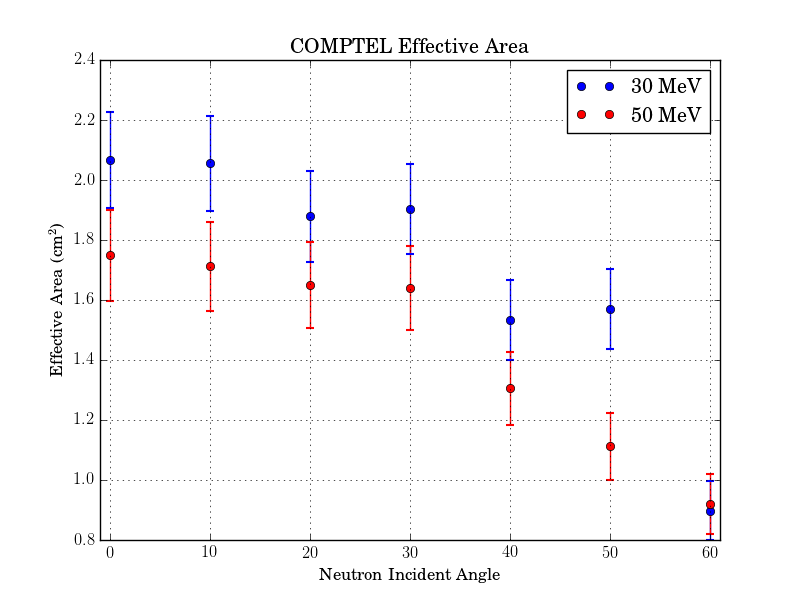
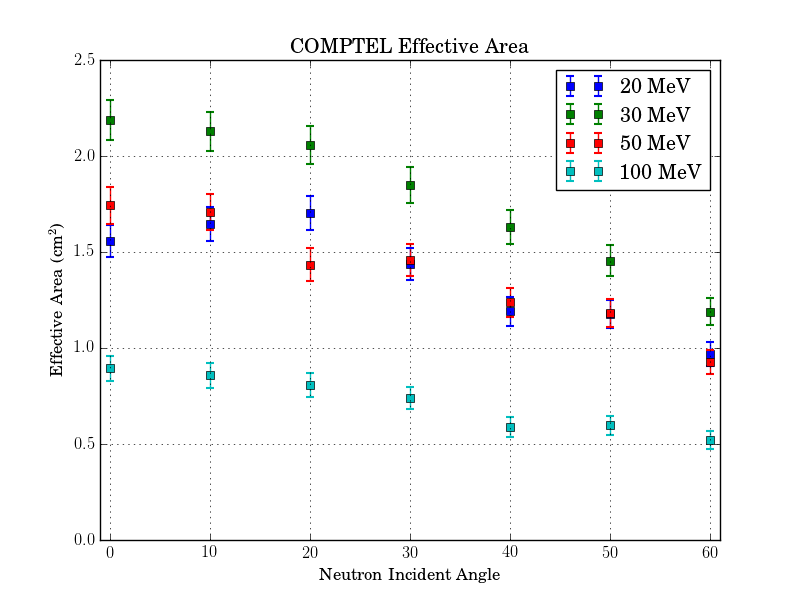
updating

diff --git a/analyze_data/analyze_data.py b/analyze_data/analyze_data.py
@@ -16,51 +16,43 @@ import neutron_analysis as na
 sys.path.insert(0, '/Users/morgan/summer_research/process_sim_files')
 from process_sims import Data
 
+
 def open_data(path_to_pickles):
     """
     Outputs
     """
 
-    eff30 = []
-    err30 = []
-    for pckl in glob.iglob(path_to_pickles + '/COMPTEL30MeV*_processed'):
+    energy = [20, 30, 50, 100]
+    angles = [0, 10, 20, 30, 40, 50, 60]
+    # plt.rc('text', usetex=True)
+    # plt.rc('font', family='serif')
 
-        angles = [0, 10, 20, 30, 40, 50, 60]
-        with open(pckl, 'rb') as f:
-            data = pickle.load(f)
-        eff = na.effective_area(data)
-        eff30.append(eff)
-        err30.append(eff/sqrt(data.triggered_events))
+    with open('output_data.txt', 'w') as f:
+        for E in energy:
+            eff = []
+            err = []
+            i = 0
+            for pckl in glob.iglob( path_to_pickles + '/COMPTEL{}MeV*'.format(E) ):
+                with open(pckl, 'rb') as p:
+                    data = pickle.load(p)
+                E_A = na.effective_area(data)
+                eff.append(E_A)
+                err.append(E_A/sqrt(data.triggered_events))
 
+                f.write('{}, {}, {}\n'.format(E, angles[i], E_A))
+                i += 1
 
-    eff50 = []
-    err50 = []
-    for pckl in glob.iglob(path_to_pickles + '/COMPTEL50MeV*_processed'):
-
-        angles = [0, 10, 20, 30, 40, 50, 60]
-        with open(pckl, 'rb') as f:
-            data = pickle.load(f)
-        eff = na.effective_area(data)
-        eff50.append(eff)
-        err50.append(eff/sqrt(data.triggered_events))
-
-    plt.rc('text', usetex=True)
-    plt.rc('font', family='serif')
-    plt.plot(angles, eff30, 'bo', angles, eff50, 'ro')
-    plt.hold(True)
-    plt.xlim(-1, 61)
-    plt.errorbar(angles, eff30, yerr=err30, fmt='.', capthick=1.5)
-    plt.errorbar(angles, eff50, yerr=err50, fmt='r.', ecolor='r', capthick=1.5)
-    plt.ylabel(r'Effective Area (cm\textsuperscript{2})')
-    plt.xlabel(r'Neutron Incident Angle')
-    plt.title(r'COMPTEL Effective Area')
-    plt.legend([r'30 MeV', r'50 MeV'])
-    plt.grid(True)
-    plt.savefig('COMPTELeffective_area')
-    plt.show()
+            # plt.errorbar(angles, eff, yerr=err, fmt='s', capthick=1.5)
+            # plt.hold(True)
 
 
-
+    # plt.xlim(-1, 61)
+    # plt.ylabel(r'Effective Area (cm\textsuperscript{2})')
+    # plt.xlabel(r'Neutron Incident Angle')
+    # plt.title(r'COMPTEL Effective Area')
+    # plt.legend([r'20 MeV', r'30 MeV', r'50 MeV', r'100 MeV'])
+    # plt.grid(True)
+    # plt.savefig('COMPTELeffective_area')
 
 
     # plot efficiency vs energy

diff --git a/process_sim_files/process_sims.py b/process_sim_files/process_sims.py
@@ -37,7 +37,6 @@ def standard_output(sim_files):
     new_directory = os.path.join(directory, 'processed_data')
     if not os.path.exists(new_directory):
         os.makedirs(new_directory)
-    os.chdir(new_directory)
 
     if os.path.isfile(sim_files):
         # convert *.sim file to Pandas data frame
@@ -67,10 +66,14 @@ def standard_output(sim_files):
 
     if os.path.isdir(sim_files):
         for dirName, subdirList, fileList in os.walk(sim_files):
+
+            dataFile = os.path.join(new_directory, os.path.basename(dirName))
+            if os.path.exists(dataFile):
+                continue
+
             hits = []
             particle_count = 0
             for sim in glob.iglob(dirName + '/*.sim'):
-                print(sim)
                 data = pull_simdata(sim)
                 sim_data = data['data']
                 particle_count += data['particle count']
@@ -90,18 +93,17 @@ def standard_output(sim_files):
                 temp_hits = tr.broaden(temp_hits)
                 # hits.plot(x='x', y='y', kind='scatter')
                 hits.append(tr.identify_triggers(temp_hits))
-                print(hits)
 
             if hits:
                 # concatenate all "hits" data frames in list
                 hits_df = pd.concat(hits)
                 # convert into the "Hits" object
                 data = Data(hits_df, particle_count, incident_energy)
-                with open(dirName + '_processed', 'wb') as f:
+                with open(dataFile, 'wb') as f:
                     pickle.dump(data, f, pickle.HIGHEST_PROTOCOL)
 
 
 if __name__ == '__main__':
     # import sys
-    JimRyansSims = '/Users/morgan/Documents/COMPTEL/COMPTEL_data/COMPTEL_30MeVdata'
+    JimRyansSims = '/Users/morgan/Documents/COMPTEL/COMPTEL_data'
     standard_output(JimRyansSims)

diff --git a/effective_area.py b/effective_area.py
@@ -1,0 +1,38 @@
+import numpy as np
+
+
+data_20 = np.array([20, 0, 1.5579454625034739],
+                    [20, 10, 1.6456083018539565],
+                    [20, 20, 1.7021373852319308],
+                    [20, 30, 1.4371430386539854],
+                    [20, 40, 1.1905999020961957],
+                    [20, 50, 1.1754393181105072],
+                    [20, 60, 0.9676624060389081])
+
+data_30 = np.array([30, 0, 2.1885888100553696],
+                    [30, 10, 2.128793769341387],
+                    [30, 20, 2.0557360925714536],
+                    [30, 30, 1.8482868102385914],
+                    [30, 40, 1.6295606034673293],
+                    [30, 50, 1.4540197852599812],
+                    [30, 60, 1.1895541212326641])
+
+data_50 = np.array([50, 0, 1.7425996044451257],
+                    [50, 10, 1.7069204792651576],
+                    [50, 20, 1.4342129635634693],
+                    [50, 30, 1.4566655937985602],
+                    [50, 40, 1.2374842137194564],
+                    [50, 50, 1.1809896108244204],
+                    [50, 60, 0.9280275762381395])
+
+
+data_100 = np.array([100, 0, 0.8944547337928115],
+                    [100, 10, 0.8580104190237179],
+                    [100, 20, 0.8082458216056045],
+                    [100, 30, 0.7373796788813632],
+                    [100, 40, 0.5896596409716086],
+                    [100, 50, 0.5967613247594137],
+                    [100, 60, 0.5232359986392423])
+
+for data in [data_20, data_30, data_50, data_100]:
+                   

diff --git a/run_simulations/run_sims.py b/run_simulations/run_sims.py
@@ -27,11 +27,11 @@ def run_sims():
     """
     source_file_path = '/Users/morgan/Documents/COMPTEL/COMPTELpractice.source'
     sim_dir = '/Users/morgan/Documents/COMPTEL/COMPTEL_data'
-    trials = 3
+    trials = 2
 
     """ """ """ """ """ PROVIDE PARAMETERS AS A LIST """ """ """ """ """
     # energy = [1, 5, 15, 30, 55, 100]
-    energy = [30, 50]
+    energy = [20, 100]
     # angles = [0, 10, 20, 30, 40, 50, 60]
     angles = [0, 10, 20, 30, 40, 50, 60]
 
@@ -84,20 +84,9 @@ def run_sims():
 
             # run Cosima
             for i in range(trials):
-                # f = subprocess.run('cosima ' + source_file_path,
-                #                universal_newlines=True,
-                #                stdout=subprocess.PIPE,
-                #                stderr=subprocess.STDOUT,
-                #                shell=True)
-                # print(f)
                 subprocess.run(['cosima', source_file_path])
 
 
 if __name__ == '__main__':
-    # adjust parameters within the function itself
-    import time
 
-    start = time.clock()
     run_sims()
-    end = time.clock()
-    print(end - start)
